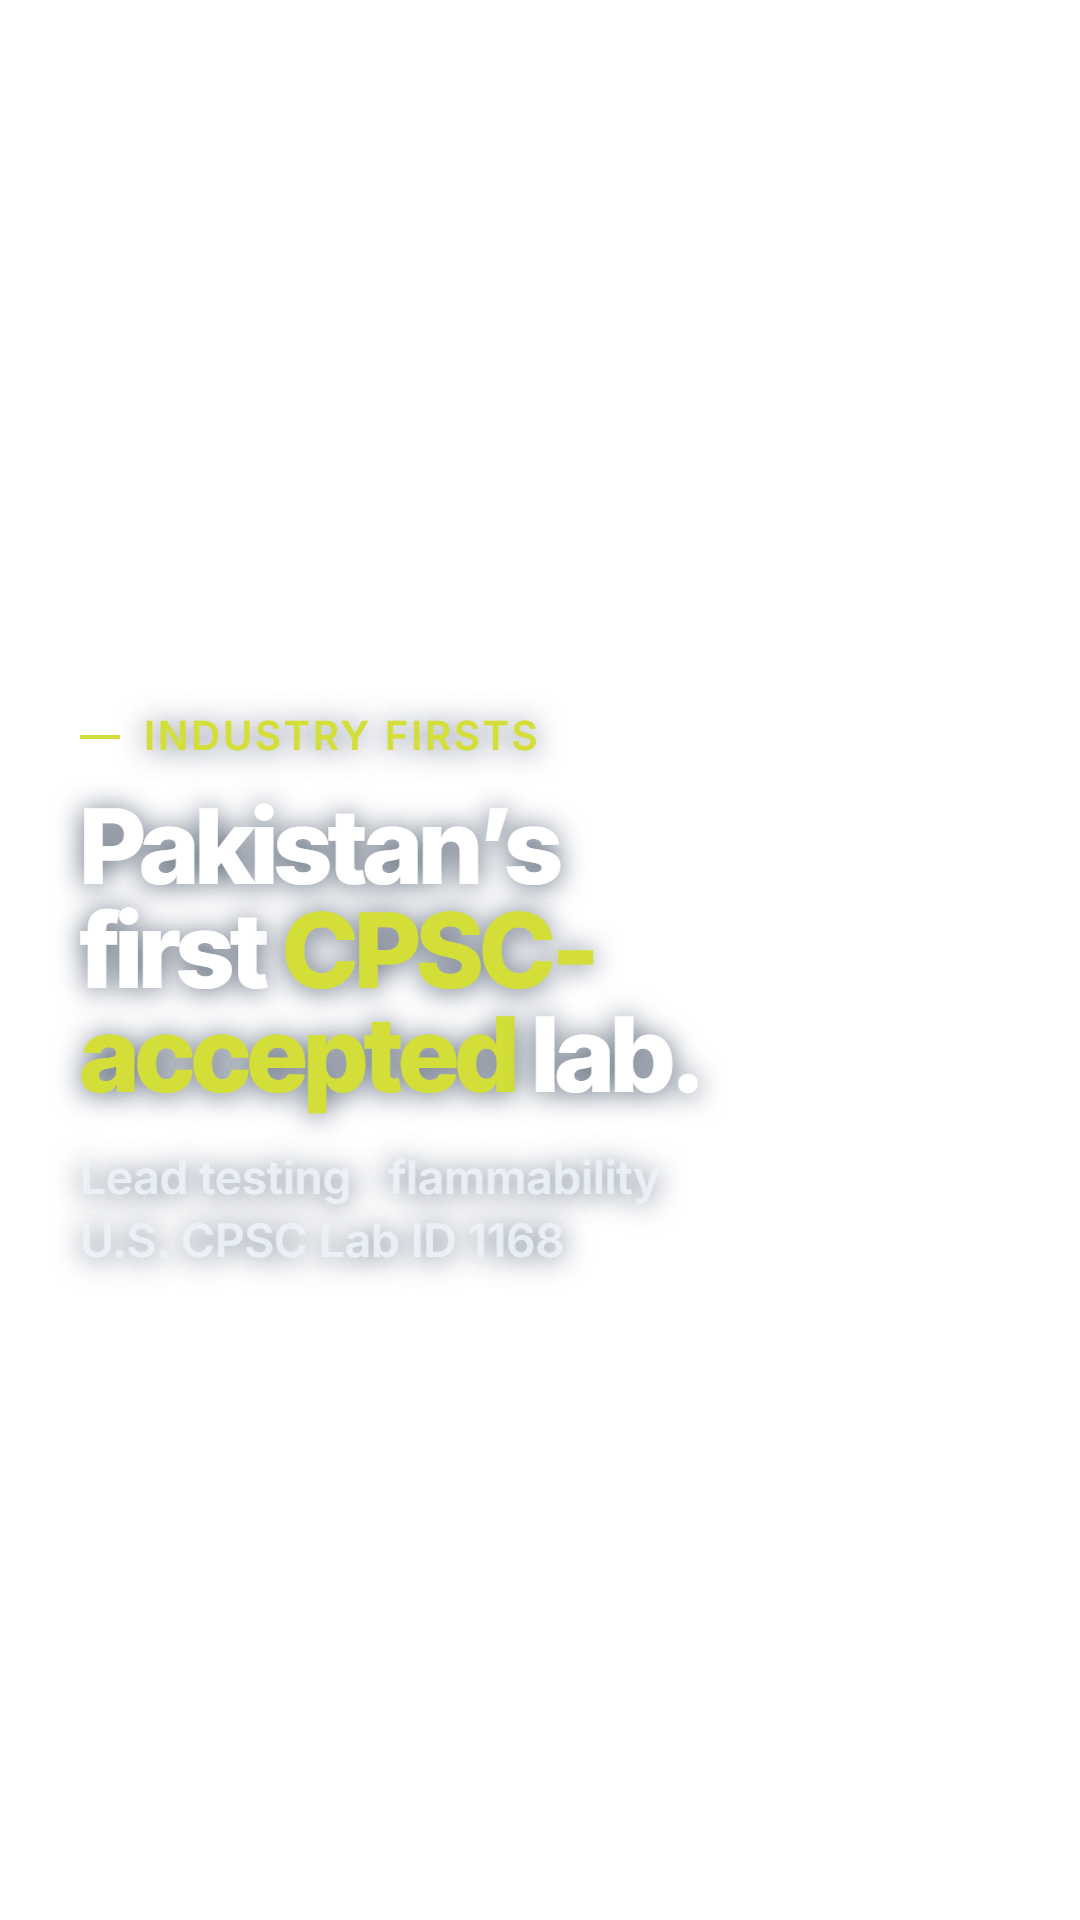
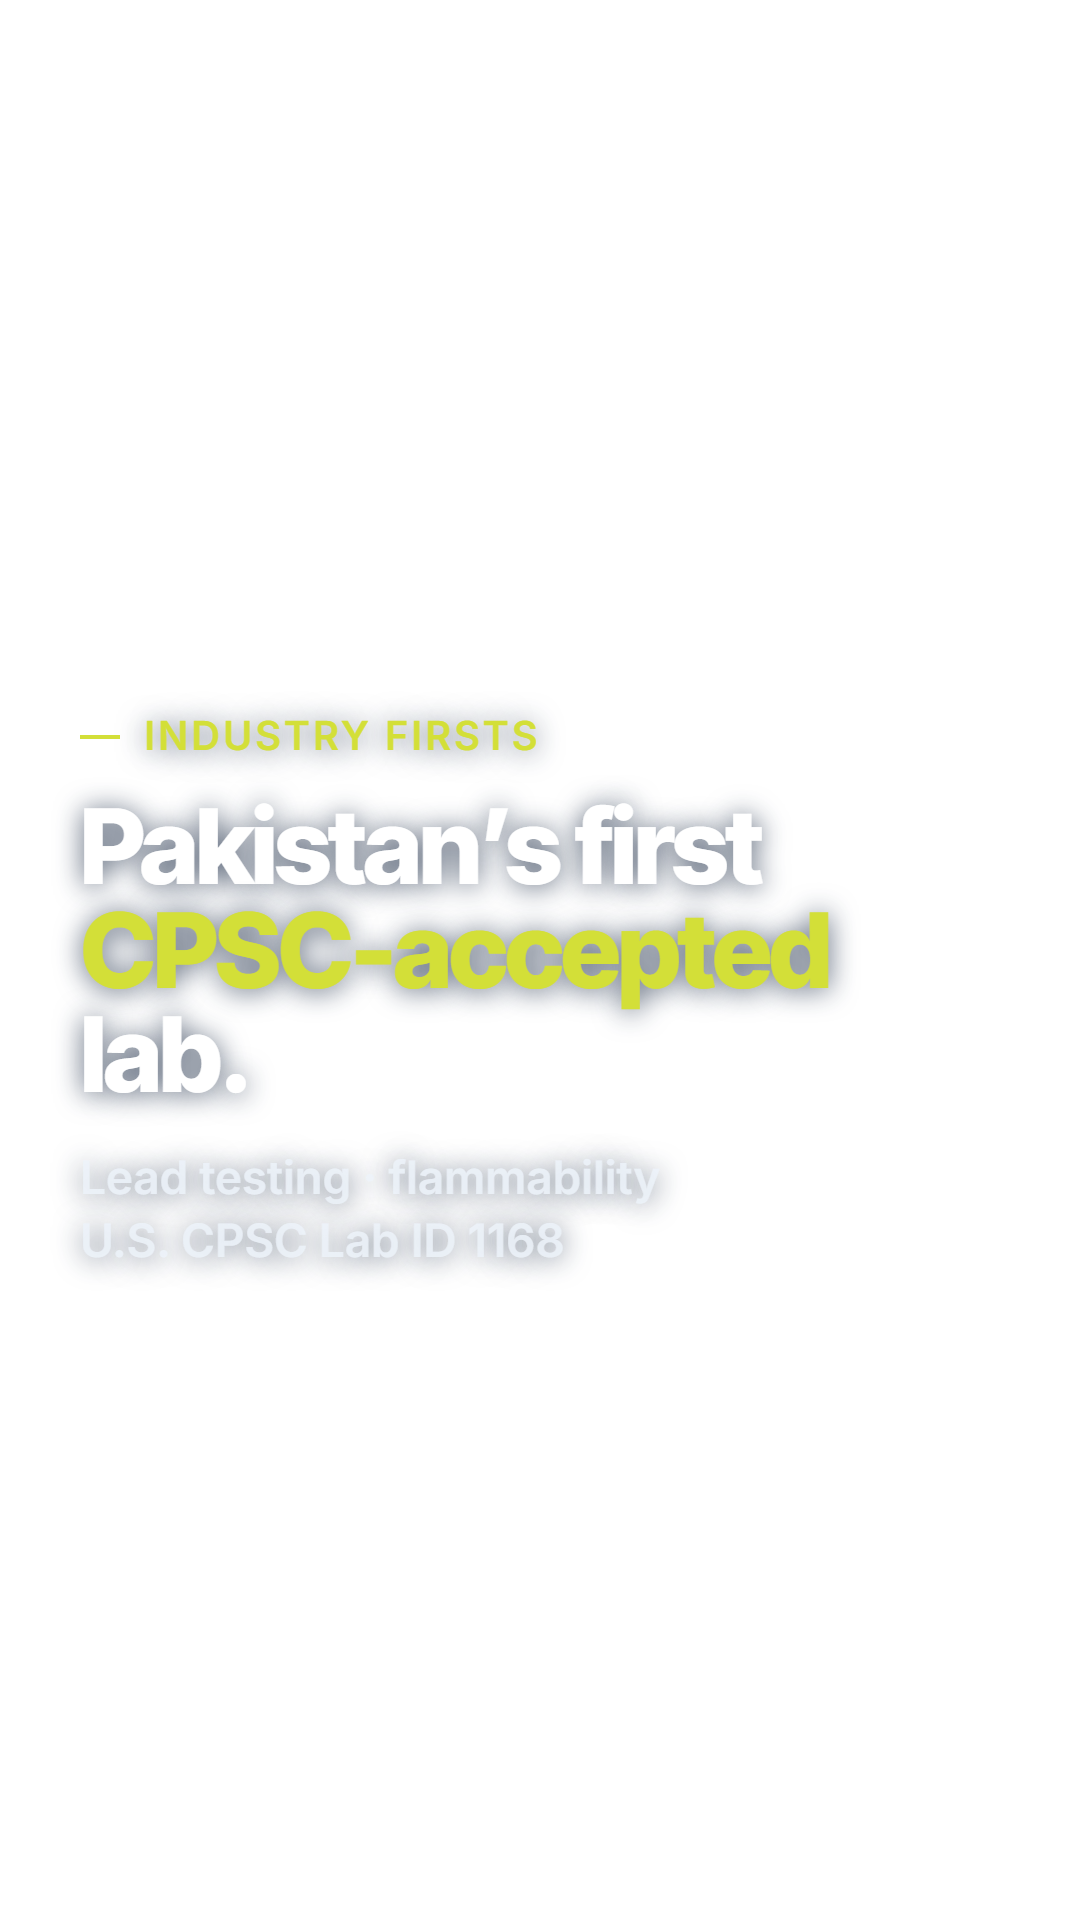
Lobby slides: keep highlighted words and sector names whole; re-cache (v2.1)

Changed region(s): [[0.0611, 0.4062, 0.7944, 0.5938]]

diff --git a/sw.js b/sw.js
@@ -1,7 +1,7 @@
 // Offline cache for the Chrome (PWA) fallback. The Android app plays from files and never uses this.
 // Install: cache the player and every slide the main playlist names. Fetch: network first, cache when offline,
 // so copying new slides to the server shows up on the next load and the screen keeps playing if the network drops.
-var CACHE = "tti-screen";   // v2, 2026-10-30: lobby slides + full logo (any byte change here re-caches every slide)
+var CACHE = "tti-screen";   // v2.1, 2026-10-30: lobby slides + full logo (any byte change here re-caches every slide)
 self.addEventListener("install", function (e) {
   e.waitUntil(caches.open(CACHE).then(function (c) {
     return fetch("playlists/main.js", { cache: "no-store" }).then(function (r) { return r.text(); }).then(function (js) {
